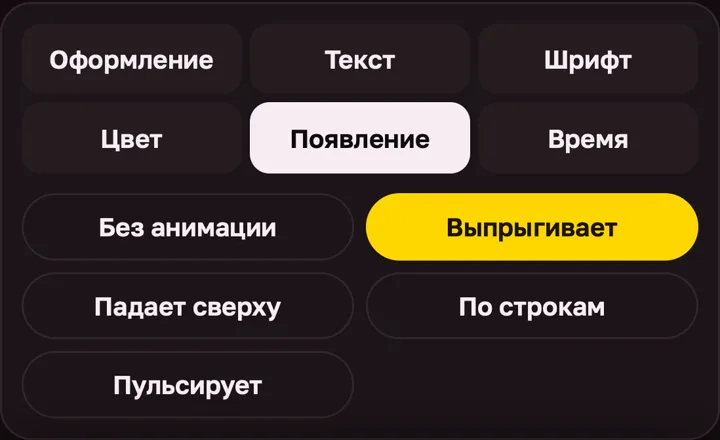
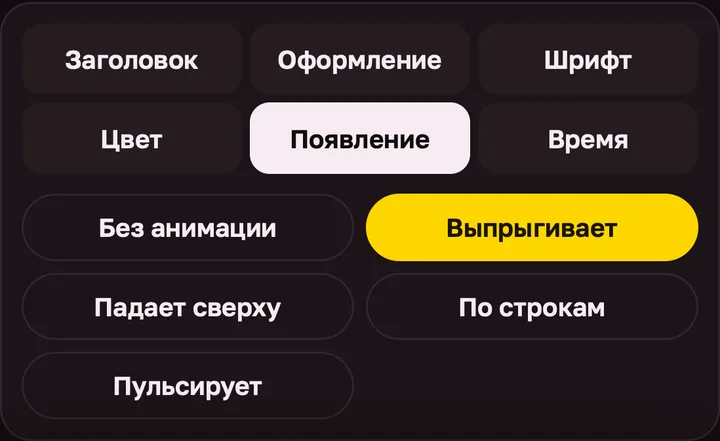
n-2f254e947957: инструкция Рилсовой под 27.10 - вкладка «Заголовок» первой, «Мои стили», чёрно-белый первым, одна кнопка сборки; скрины пересняты

diff --git a/n-2f254e947957/index.html b/n-2f254e947957/index.html
@@ -159,29 +159,31 @@
   <h2><span class="n">6</span>Настройте оформление</h2>
   <p>Ниже видео шесть вкладок</p>
 
+  <h3>Заголовок</h3>
+  <p>Эта вкладка открыта сразу. Здесь можно поправить заголовок руками. Каждая строка поля - строка заголовка на видео. В оформлении «Оригинал» слово в *звёздочках* выделится вторым цветом</p>
+  <figure><img src="img/09-tab-title.webp" width="720" height="488" alt="Вкладка Заголовок: поле заголовка" loading="lazy"></figure>
+
   <h3>Оформление</h3>
   <p>11 готовых стилей. «Бархат» - объёмные плюшевые буквы, «Оригинал» - белый текст с тенью</p>
-  <figure><img src="img/08-looks.webp" width="720" height="1032" alt="Вкладка Оформление: 11 стилей заголовка" loading="lazy"></figure>
-
-  <h3>Текст</h3>
-  <p>Поправить заголовок руками. Каждая строка поля - строка заголовка на видео. В оформлении «Оригинал» слово в *звёздочках* выделится вторым цветом</p>
-  <figure><img src="img/09-tab-text.webp" width="720" height="488" alt="Вкладка Текст: поле заголовка" loading="lazy"></figure>
+  <p><b>Мои стили.</b> Настроили заголовок как нравится - нажмите <span class="btn-name">Сохранить мой стиль</span>. На следующем ролике нажмите сохранённый стиль, и встанут оформление, шрифт, цвета, тень, размер, место и появление. Текст у каждого ролика свой, стиль его не меняет. Удалить стиль: крестик, потом ещё раз <span class="btn-name">Удалить?</span></p>
+  <figure><img src="img/08-looks.webp" width="720" height="1383" alt="Вкладка Оформление: Мои стили с кнопкой Сохранить мой стиль и 11 готовых стилей" loading="lazy"><figcaption>Сверху «Мои стили», под ними 11 готовых</figcaption></figure>
+  <div class="tip"><b>Где хранятся стили.</b> В браузере этого телефона. Откроете Рилсовую в другом браузере или на другом телефоне - там свои стили</div>
 
   <h3>Шрифт</h3>
   <p>48 шрифтов с русскими буквами. Шрифт меняется у текущего оформления. Вернуть родной: нажмите оформление ещё раз</p>
   <figure><img src="img/10-tab-font.webp" width="720" height="984" alt="Вкладка Шрифт: список шрифтов" loading="lazy"></figure>
 
   <h3>Цвет</h3>
-  <p>Готовые палитры или свои цвета для светлых и тёмных строк</p>
-  <figure><img src="img/11-tab-color.webp" width="720" height="878" alt="Вкладка Цвет: палитры и свои цвета" loading="lazy"></figure>
+  <p>Готовые палитры, первой чёрно-белая, или свои цвета для светлых и тёмных строк</p>
+  <figure><img src="img/11-tab-color.webp" width="720" height="877" alt="Вкладка Цвет: палитры и свои цвета" loading="lazy"></figure>
 
   <h3>Появление</h3>
   <p>Как заголовок появится в ролике: без анимации, выпрыгивает, падает сверху, по строкам или пульсирует</p>
-  <figure><img src="img/12-tab-anim.webp" width="720" height="440" alt="Вкладка Появление: варианты анимации" loading="lazy"></figure>
+  <figure><img src="img/12-tab-anim.webp" width="720" height="441" alt="Вкладка Появление: варианты анимации" loading="lazy"></figure>
 
   <h3>Время</h3>
   <p>На какой секунде заголовок появляется и когда исчезает</p>
-  <figure><img src="img/13-tab-time.webp" width="720" height="526" alt="Вкладка Время: ползунки появления и исчезновения" loading="lazy"></figure>
+  <figure><img src="img/13-tab-time.webp" width="720" height="525" alt="Вкладка Время: ползунки появления и исчезновения" loading="lazy"></figure>
 </section>
 
 <section id="sborka">
@@ -191,7 +193,7 @@
     <li><span class="btn-name">Поделиться</span> открывает меню телефона: там Instagram и «Сохранить видео». Можно выложить сразу, не сохраняя на телефон</li>
     <li><span class="btn-name">Скачать</span> - сохранить файл</li>
   </ol>
-  <figure><img src="img/14-done.webp" width="720" height="206" alt="Видео собрано: кнопки Поделиться и Скачать" loading="lazy"></figure>
+  <figure><img src="img/14-done.webp" width="720" height="130" alt="Видео собрано: кнопки Поделиться и Скачать" loading="lazy"></figure>
   <div class="tip"><b>Звук.</b> Видео собирается без звука: музыку добавьте в Instagram при публикации</div>
 </section>
 
